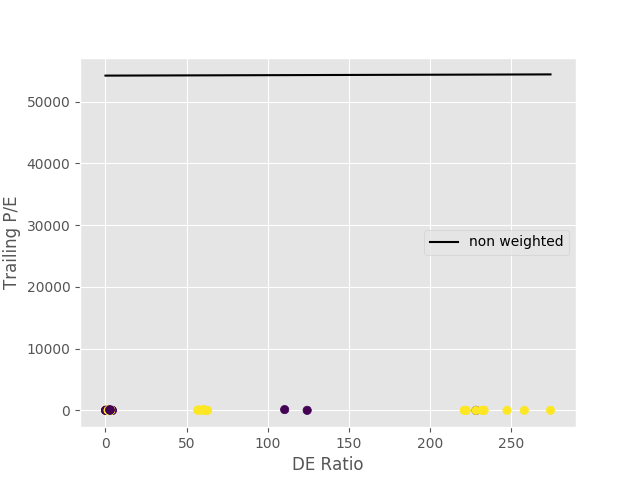
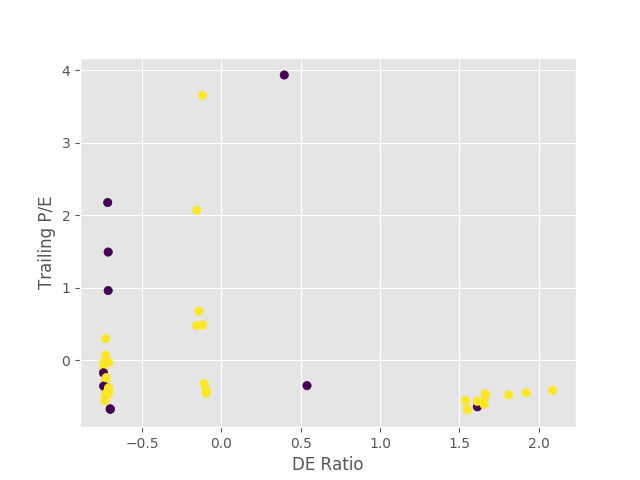
asfads

diff --git a/p13.py b/p13.py
@@ -1,46 +1,99 @@
 import numpy as np
 import pandas as pd
-from sklearn import svm
+from sklearn import svm, preprocessing
 import matplotlib
 matplotlib.use('TkAgg')
 import matplotlib.pyplot as plt
 from matplotlib import style
 style.use("ggplot")
 
-def Build_Data_Set(features = ["DE Ratio",
-                               "Trailing P/E"]):
+
+
+def Build_Data_Set(FEATURES =  ['DE Ratio',
+             'Trailing P/E',
+             'Price/Sales',
+             'Price/Book',
+             'Profit Margin',
+             'Operating Margin',
+             'Return on Assets',
+             'Return on Equity',
+             'Revenue Per Share',
+             'Market Cap',
+             'Enterprise Value',
+             'Forward P/E',
+             'PEG Ratio',
+             'Enterprise Value/Revenue',
+             'Enterprise Value/EBITDA',
+             'Revenue',
+             'Gross Profit',
+             'EBITDA',
+             'Net Income Avl to Common ',
+             'Diluted EPS',
+             'Earnings Growth',
+             'Revenue Growth',
+             'Total Cash',
+             'Total Cash Per Share',
+             'Total Debt',
+             'Current Ratio',
+             'Book Value Per Share',
+             'Cash Flow',
+             'Beta',
+             'Held by Insiders',
+             'Held by Institutions',
+             'Shares Short (as of',
+             'Short Ratio',
+             'Short % of Float',
+             'Shares Short (prior ']):
     data_df = pd.DataFrame.from_csv("key_stats.csv")
     # print data_df
-    data_df = data_df[:50]
+    # data_df = data_df[:1000]
 
-    X = np.array(data_df[features].values)#.tolist())
+    X = np.array(data_df[FEATURES].values)#.tolist())
 
     y = (data_df["Status"]
          .replace("underperform", 0)
          .replace("outperform", 1)
          .values.tolist())
 
+    X = preprocessing.scale(X)
+
     return X, y
 
 def Analysis():
+    test_size = 500
     X, y = Build_Data_Set()
+    print len(X)
+    # print X
+    # print "y:\n", y
     clf = svm.SVC(kernel = "linear", C = 1.0)
-    clf.fit(X,y)
-    w = clf.coef_[0]
+    clf.fit(X[:-test_size],y[:-test_size])
 
-    a = -w[0] / w[1]
+    correct_count = 0
+    predictions = clf.predict(X)
+    print "predictions", predictions, "\n++++++++++"
 
-    xx = np.linspace(min(X[:, 0]), max(X[:, 0]))
+    for x in range(1,test_size+1):
+        print predictions[x], y[x], "\n =================="
+        if predictions[x] == y[x]:
+            correct_count += 1.0
 
-    yy = a * xx - clf.intercept_[0] / w[1]
-
-    h0 = plt.plot(xx,yy,"k-", label = "non weighted")
-
-    plt.scatter(X[:, 0], X[:, 1], c = y)
-    plt.ylabel("Trailing P/E")
-    plt.xlabel("DE Ratio")
-    plt.legend()
-    plt.savefig('Figure_13.png')
+    print "accuracy:" , (correct_count/test_size) * 100
+    # print correct_count
+    # w = clf.coef_[0]
+    #
+    # a = -w[0] / w[1]
+    #
+    # xx = np.linspace(min(X[:, 0]), max(X[:, 0]))
+    #
+    # yy = a * xx - clf.intercept_[0] / w[1]
+    #
+    # h0 = plt.plot(xx,yy,"k-", label = "non weighted")
+    #
+    # plt.scatter(X[:, 0], X[:, 1], c = y)
+    # plt.ylabel("Trailing P/E")
+    # plt.xlabel("DE Ratio")
+    # plt.legend()
+    # plt.savefig('Figure_13.png')
     # plt.show()
 
 Analysis()
